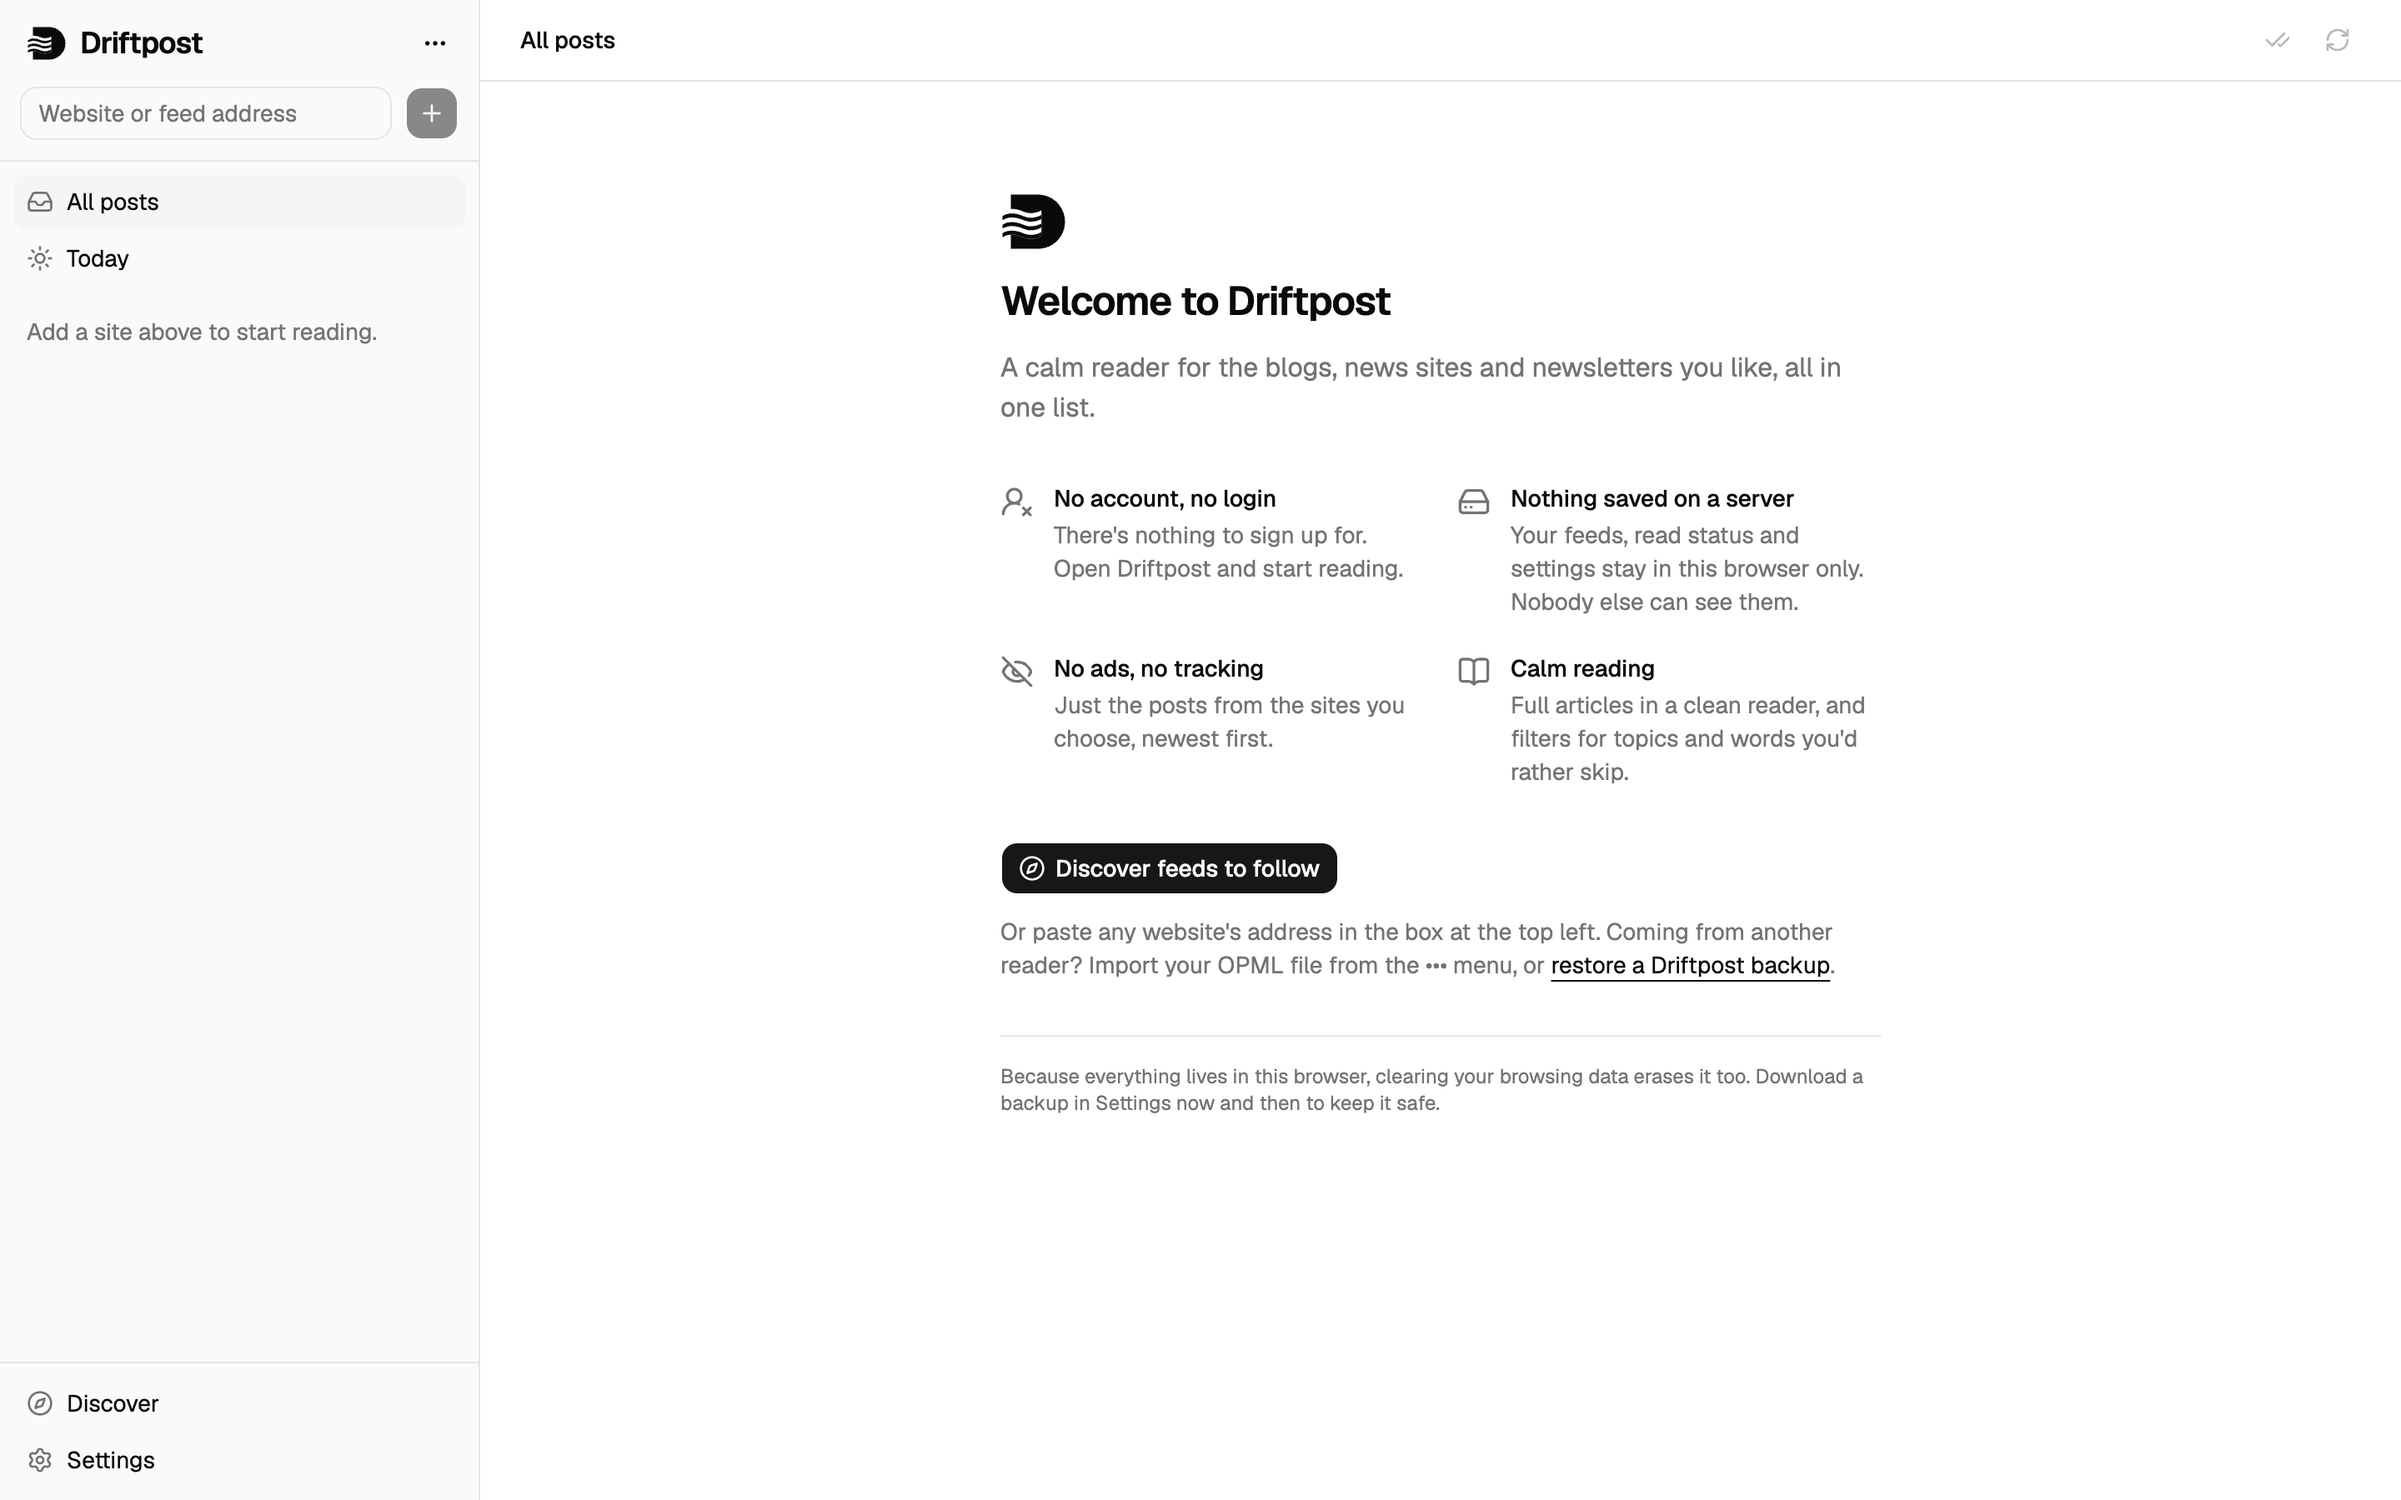
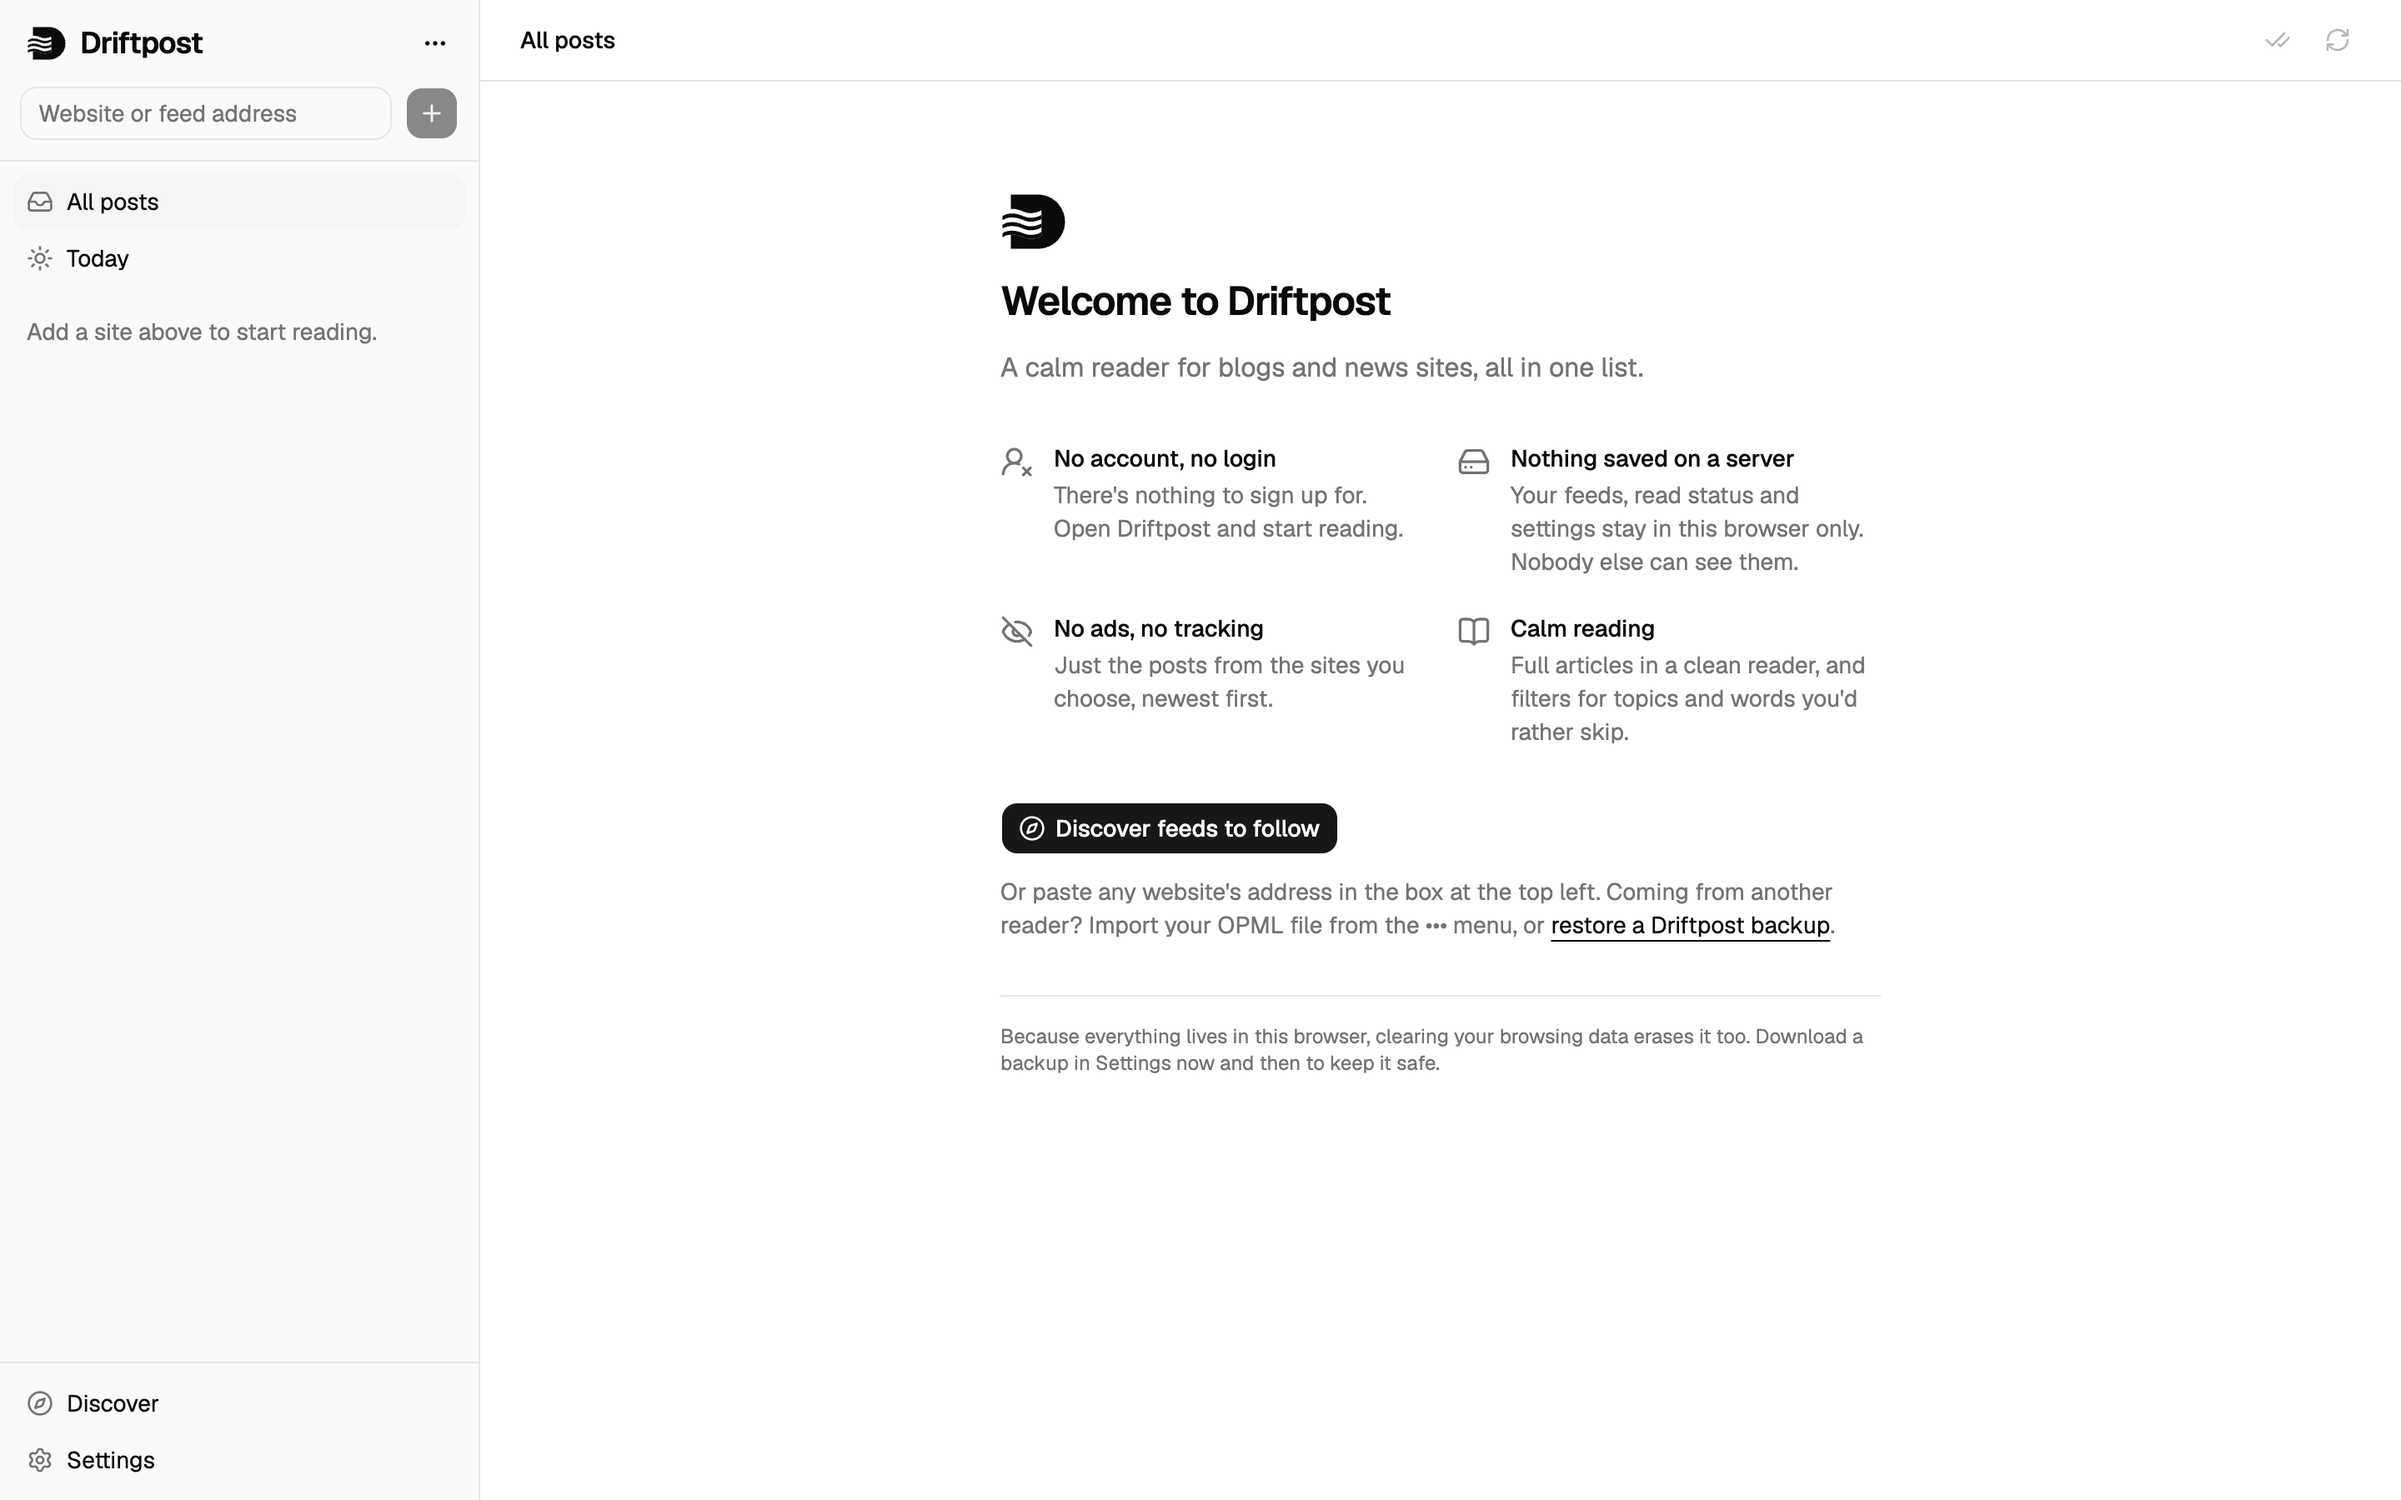
Drop newsletters from the intro line

diff --git a/src/components/welcome.tsx b/src/components/welcome.tsx
@@ -36,7 +36,7 @@ export function Welcome({ onDiscover, onSettings }: { onDiscover: () => void; on
           <Logo className="size-10" aria-hidden title="" />
           <h2 className="font-heading text-2xl font-semibold tracking-tight">Welcome to Driftpost</h2>
           <p className="text-muted-foreground">
-            A calm reader for the blogs, news sites and newsletters you like, all in one list.
+            A calm reader for blogs and news sites, all in one list.
           </p>
         </div>
 

diff --git a/README.md b/README.md
@@ -1,6 +1,6 @@
 # Driftpost
 
-A calm feed reader for the blogs, news sites and newsletters you like, all in one list.
+A calm feed reader for blogs and news sites, all in one list.
 
 **No account, no login, nothing saved on a server.** Your feeds, read status and settings live only in your own browser.
 
